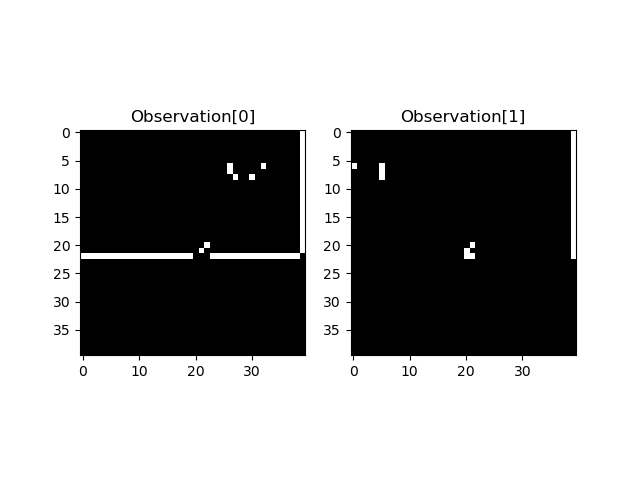
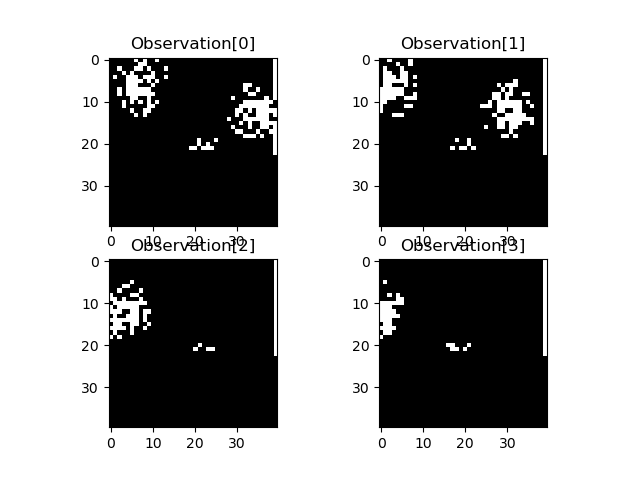
cleaned up KAZ. added manual input to KAZ. added do nothing action to KAZ

Changed region(s): [[0.0625, 0.0625, 0.9062, 0.9375]]

diff --git a/gamma_games/knights_archers_zombies/game.py b/gamma_games/knights_archers_zombies/game.py
@@ -14,10 +14,12 @@ from src.weapons import Arrow, Sword
 import numpy as np
 import skimage
 from skimage import measure
+from skimage.io import imsave
 import matplotlib.pyplot as plt
+import time
+from ray.rllib.env.multi_agent_env import MultiAgentEnv
 
-# class env(MultiAgentEnv):
-class env():
+class env(MultiAgentEnv):
     def __init__(self, num_archers=2, num_knights=2):
         # Game Constants
         self.ZOMBIE_SPAWN = 20
@@ -95,6 +97,7 @@ class env():
         for i in range(num_archers + num_knights):
             self.agent_ids.append(i)
 
+
     # Controls the Spawn Rate of Weapons
     def check_weapon_spawn(self, sword_spawn_rate, arrow_spawn_rate):
         if sword_spawn_rate > 0:
@@ -141,7 +144,7 @@ class env():
 
     # Spawn New Weapons
     class spawnWeapons(pygame.sprite.Sprite):
-        def __init__(self, action, sword_spawn_rate, arrow_spawn_rate, knight_killed, archer_killed,
+        def __init__(self, action, agent_index, agent_list, sword_spawn_rate, arrow_spawn_rate, knight_killed, archer_killed,
                     knight_dict, archer_dict, knight_list, archer_list, knight_player_num, archer_player_num,
                     all_sprites, sword_dict, arrow_dict, sword_list, arrow_list):
             super().__init__()
@@ -162,9 +165,12 @@ class env():
             self.sword_list = sword_list
             self.arrow_list = arrow_list
 
+            self.agent_index = agent_index
+            self.agent_list = agent_list
+
         # Spawning Swords for Players
         def spawnSword(self):
-            if (self.action == 5 and self.sword_spawn_rate == 0):
+            if (self.action == 5 and self.sword_spawn_rate == 0 and self.agent_list[self.agent_index].is_knight):
                 if not self.sword_list:      # Sword List is Empty
                     if not self.knight_killed:
                         for i in range(0, self.knight_player_num + 1):
@@ -183,12 +189,13 @@ class env():
 
         # Spawning Arrows for Players
         def spawnArrow(self):
-            if (self.action == 5 and self.arrow_spawn_rate == 0):
+            if (self.action == 5 and self.arrow_spawn_rate == 0 and self.agent_list[self.agent_index].is_archer):
                 if not self.archer_killed:
                     for i in range(0, self.archer_player_num + 1):
-                        self.arrow_dict[('arrow{0}'.format(i))] = Arrow(self.archer_dict[('archer{0}'.format(i))])
-                        self.arrow_list.add(self.arrow_dict[('arrow{0}'.format(i))])
-                        self.all_sprites.add(self.arrow_dict[('arrow{0}'.format(i))])
+                        if i == self.agent_index:
+                            self.arrow_dict[('arrow{0}'.format(i))] = Arrow(self.archer_dict[('archer{0}'.format(i))])
+                            self.arrow_list.add(self.arrow_dict[('arrow{0}'.format(i))])
+                            self.all_sprites.add(self.arrow_dict[('arrow{0}'.format(i))])
                     self.arrow_spawn_rate = 1
                     self.archer_killed = False
                 else:
@@ -308,11 +315,11 @@ class env():
         return run
 
     def observe(self):
+        total_time = 0
         observation = pygame.surfarray.array3d(self.WINDOW)
         observation = np.rot90(observation, k=3)
         observation = np.fliplr(observation)
         observation = observation[:, :, 0]  # take red channel only instead of doing full greyscale
-        # observation = np.dot(observation[..., :3], [0.299, 0.587, 0.114])
 
         agent_positions = []
         for agent in self.agent_list:
@@ -344,7 +351,8 @@ class env():
                 cropped = np.vstack((cropped, pad))
 
             mean = lambda x, axis: np.mean(x, axis=axis, dtype=np.uint8)
-            cropped = skimage.measure.block_reduce(cropped, block_size=(13, 13), func=mean) # scale to 40x40
+            cropped = skimage.measure.block_reduce(cropped, block_size=(10, 10), func=mean) # scale to 40x40
+            imsave("img{}.png".format(i), cropped) # FIXME: TODO: @Justin, uncomment this if you want to save the scaled down observations as images. Remember to call quit() before this function returns so that you don't save the images at every frame
 
             unscaled_obs = np.expand_dims(cropped, axis=2).flatten()
             observations[self.agent_ids[i]] = np.divide(unscaled_obs, 255, dtype=np.float32)
@@ -356,6 +364,7 @@ class env():
         # Controls the Spawn Rate of Weapons
         self.sword_spawn_rate, self.arrow_spawn_rate = self.check_weapon_spawn(self.sword_spawn_rate, self.arrow_spawn_rate)
 
+        # Keyboard input check
         for event in pygame.event.get():
             # Quit Game
             if event.type == pygame.QUIT:
@@ -380,7 +389,7 @@ class env():
             self.archer_player_num, self.archer_list, self.all_sprites, self.archer_dict = sp.spawnArcher()
 
             # Spawn Weapons
-            sw = self.spawnWeapons(actions[i], self.sword_spawn_rate, self.arrow_spawn_rate, self.knight_killed, self.archer_killed, self.knight_dict, self.archer_dict, self.knight_list, self.archer_list, self.knight_player_num, self.archer_player_num, self.all_sprites, self.sword_dict, self.arrow_dict, self.sword_list, self.arrow_list)
+            sw = self.spawnWeapons(actions[i], i, self.agent_list, self.sword_spawn_rate, self.arrow_spawn_rate, self.knight_killed, self.archer_killed, self.knight_dict, self.archer_dict, self.knight_list, self.archer_list, self.knight_player_num, self.archer_player_num, self.all_sprites, self.sword_dict, self.arrow_dict, self.sword_list, self.arrow_list)
             # Sword
             self.sword_spawn_rate, self.knight_killed, self.knight_dict, self.knight_list, self.knight_player_num, self.all_sprites, self.sword_dict, self.sword_list = sw.spawnSword()
             # Arrow
@@ -479,13 +488,20 @@ class env():
 
         fig = plt.figure()
         # plt.imsave('test.png', observation[0], cmap = plt.cm.gray)
-        ax1 = fig.add_subplot(121)
-        ax2 = fig.add_subplot(122)
+        ax1 = fig.add_subplot(221)
+        ax2 = fig.add_subplot(222)
+        ax3 = fig.add_subplot(223)
+        ax4 = fig.add_subplot(224)
         ax1.imshow(observation[0], cmap=plt.cm.gray)
         ax2.imshow(observation[1], cmap=plt.cm.gray)
+        ax3.imshow(observation[2], cmap=plt.cm.gray)
+        ax4.imshow(observation[3], cmap=plt.cm.gray)
         ax1.set_title("Observation[0]")
         ax2.set_title("Observation[1]")
+        ax3.set_title("Observation[2]")
+        ax4.set_title("Observation[3]")
         plt.savefig(fname)
+        quit()
 
     def check_game_end(self):
         # Zombie reaches the End of the Screen
@@ -523,13 +539,6 @@ class env():
         self.sword_list = pygame.sprite.Group()
         self.archer_list = pygame.sprite.Group()
         self.knight_list = pygame.sprite.Group()
-
-        # Initializing Pygame
-        # pygame.init()
-        # self.WINDOW = pygame.display.set_mode([self.WIDTH, self.HEIGHT])
-        # # self.WINDOW = pygame.Surface((self.WIDTH, self.HEIGHT))
-        # pygame.display.set_caption("Zombies, Knights, Archers")
-        # self.clock = pygame.time.Clock()
 
         self.agent_list = []
         self.agent_ids = []

diff --git a/gamma_games/knights_archers_zombies/test.py b/gamma_games/knights_archers_zombies/test.py
@@ -6,18 +6,22 @@ import pygame
 import random
 
 if __name__ == "__main__":
-    env = game.env()
+    env = game.env(2,2)
     done = False
+
+    cur_agent = 0
 
     start_time = time.time()
     frame_count = 0
     frame_limit = 500
     quit_game = 0
 
-    # while not done:
-    while frame_count < frame_limit:
+    while not done:
+    # while frame_count < frame_limit: # Uncomment this if you want the game to run for fame_limit amount of frames instead of ending by normal game conditions (useful for testing purposes)
+        agents = env.agent_list
         frame_count += 1
-        actions = [random.randint(1, 5) for x in range(env.num_agents)]
+        # actions = [random.randint(1, 5) for x in range(env.num_agents)] # If you want to do random inputs
+        actions = [6 for x in range(env.num_agents)] # If you want to do manual input
 
         for event in pygame.event.get():
             if event.type == pygame.KEYDOWN:
@@ -28,14 +32,41 @@ if __name__ == "__main__":
                     # Backspace to reset
                     env.reset()
                     # totalReward = 0
+                if event.key == pygame.K_a:
+                    cur_agent -= 1
+                    if cur_agent < 0:
+                        cur_agent = len(agents) - 1
+                if event.key == pygame.K_d:
+                    cur_agent += 1
+                    if cur_agent > len(agents) - 1:
+                        cur_agent = 0
+                if event.key == pygame.K_q:
+                    actions[cur_agent] = 3
+                if event.key == pygame.K_e:
+                    actions[cur_agent] = 4
+                if event.key == pygame.K_w:
+                    actions[cur_agent] = 1
+                if event.key == pygame.K_s:
+                    actions[cur_agent] = 2
+                if event.key == pygame.K_f:
+                    actions[cur_agent] = 5
 
         if quit_game:
             break
 
         observations, reward_dict, done_dict, info = env.step(actions)
-        # env.render()
+        env.render()
         # env.plot_obs(observations, "obs")
         done = done_dict['__all__']
         # quit()
 
-    print('FPS:', frame_count / (time.time() - start_time))
+    end_time = time.time()
+    total_time = end_time - start_time
+    print('Totla time:', total_time)
+    print('FPS:', frame_count / (total_time))
+    print('============')
+    for key in env.timer_dict:
+        print('** {} **'.format(key))
+        print('Avg seconds per frame: {}'.format(env.timer_dict[key] / frame_count))
+        print('Percentage of runtime: {}%'.format((env.timer_dict[key] / total_time) * 100))
+        print()

diff --git a/gamma_games/knights_archers_zombies/src/players.py b/gamma_games/knights_archers_zombies/src/players.py
@@ -33,9 +33,12 @@ class Archer(pygame.sprite.Sprite):
         self.weapon = Arrow(self)
         self.alive = True
         self.score = 0
+        self.is_archer = True
+        self.is_knight = False
 
     def update(self, action):
         keys = pygame.key.get_pressed()
+        # print('archer action:', action)
         
         if not self.attacking:
             move_angle = math.radians(self.angle + 90)
@@ -54,6 +57,8 @@ class Archer(pygame.sprite.Sprite):
             elif action == 5 and self.alive:
                 self.weapon.fired = True
                 # self.attacking = True # gets reset to False in weapon attack
+            elif action == 6:
+                pass
 
             # Clamp to stay inside the screen
             self.rect.x = max(min(self.rect.x, WIDTH - 132), 100)
@@ -88,10 +93,13 @@ class Knight(pygame.sprite.Sprite):
         self.alive = True # This flag is used to immediately delete the mace object when the knight dies
         self.action = -1
         self.score = 0
+        self.is_archer = False
+        self.is_knight = True
 
     def update(self, action):
         keys = pygame.key.get_pressed()
         self.action = action
+        # print('knight action:', self.action)
 
         if not self.attacking:
             move_angle = math.radians(self.angle + 90)
@@ -109,6 +117,8 @@ class Knight(pygame.sprite.Sprite):
                 self.angle -= ANGLE_RATE
             elif action == 5:
                 self.attacking = True # gets reset to False in weapon attack
+            elif action == 6:
+                pass
 
             # Clamp to stay inside the screen
             self.rect.x = max(min(self.rect.x, WIDTH - 132), 100)